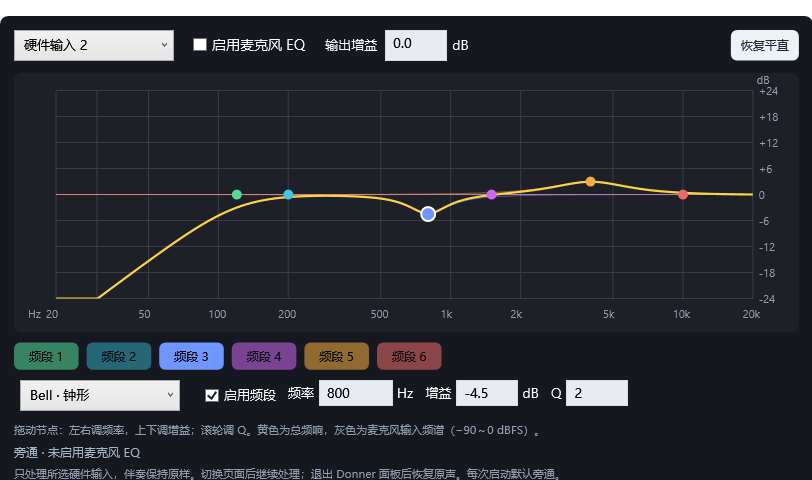
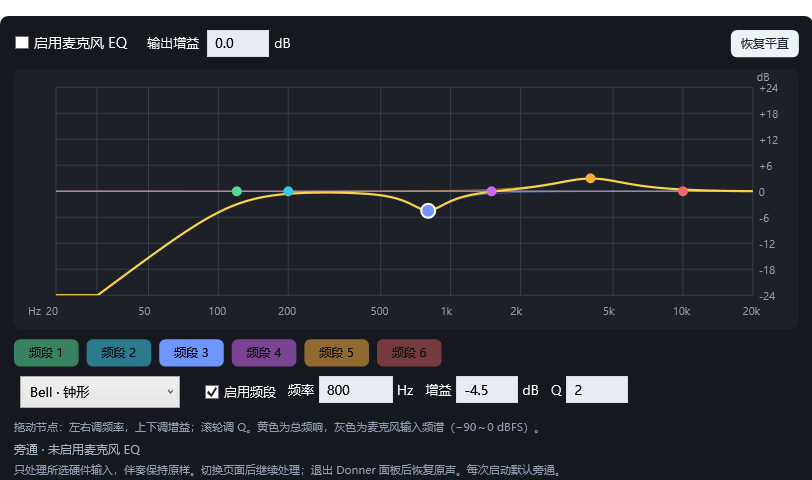
Fix microphone EQ selection and live spectrum in v1.34

diff --git a/src/Donner.Panel/EqEditor.cs b/src/Donner.Panel/EqEditor.cs
@@ -27,6 +27,8 @@ internal sealed class EqEditor:Border,IDisposable
     private bool updating;
     private string? editError,readError;
     private int index,selected;
+    internal int SelectedTarget=>index;
+    internal event Action<int>? TargetChanged;
     internal EqEditor(IEqEditorSource source)
     {
         this.source=source;if(source.IsOutput)timer.Interval=TimeSpan.FromMilliseconds(500);MinWidth=0;MinHeight=480;Margin=new Thickness(0,16,0,0);Padding=new Thickness(14);CornerRadius=new CornerRadius(8);
@@ -38,7 +40,7 @@ internal sealed class EqEditor:Border,IDisposable
         foreach(var height in new[]{GridLength.Auto,new GridLength(260),GridLength.Auto,GridLength.Auto})body.RowDefinitions.Add(new(){Height=height});
         var header=new DockPanel{Margin=new Thickness(0,0,0,12)};body.Children.Add(header);
         var reset=new Button{Content="恢复平直",FontSize=12,Padding=new Thickness(10,6,10,6),Margin=new Thickness(12,0,0,0)};DockPanel.SetDock(reset,Dock.Right);header.Children.Add(reset);
-        var headerLeft=new WrapPanel();header.Children.Add(headerLeft);headerLeft.Children.Add(input);if(source.IsOutput){headerLeft.Children.Add(channel);headerLeft.Children.Add(linked);}headerLeft.Children.Add(enabled);
+        var headerLeft=new WrapPanel();header.Children.Add(headerLeft);if(source.IsOutput){headerLeft.Children.Add(input);headerLeft.Children.Add(channel);headerLeft.Children.Add(linked);}headerLeft.Children.Add(enabled);
         if(!source.IsOutput){headerLeft.Children.Add(new TextBlock{Text="输出增益",VerticalAlignment=VerticalAlignment.Center,Margin=new Thickness(20,0,8,0)});headerLeft.Children.Add(preamp);headerLeft.Children.Add(new TextBlock{Text="dB",VerticalAlignment=VerticalAlignment.Center,Margin=new Thickness(5,0,0,0)});}
         Grid.SetRow(Graph,1);body.Children.Add(Graph);
         var editor=new StackPanel{Margin=new Thickness(0,10,0,0)};Grid.SetRow(editor,2);body.Children.Add(editor);editor.Children.Add(bandButtons);
@@ -66,12 +68,12 @@ internal sealed class EqEditor:Border,IDisposable
         Graph.SelectionChanged=SelectBand;Graph.BandChanged=(band,value)=>{selected=band;ChangeBand(value);};
         timer.Tick+=(_,_)=>
         {
-            if(!IsVisible)return;source.Maintain();
+            bool visible=IsVisible&&Window.GetWindow(this)?.WindowState!=WindowState.Minimized;source.Monitor(visible,index);if(!visible)return;source.Maintain();
             Graph.SampleRate=source.SampleRate;source.Spectrum(index,samples);Graph.UpdateSpectrum(samples,source.HasAudio);
             if(source.IsOutput&&!Graph.IsMouseCaptureWithin&&!type.IsDropDownOpen&&!input.IsDropDownOpen&&!channel.IsDropDownOpen&&!new[]{frequency,gain,q,preamp}.Any(x=>x.IsKeyboardFocusWithin))RefreshFields();
             status.Text=editError??readError??source.Status;
         };
-        Loaded+=(_,_)=>timer.Start();Unloaded+=(_,_)=>timer.Stop();IsVisibleChanged+=(_,_)=>{if(IsVisible)timer.Start();else timer.Stop();};SelectInput(0);
+        Loaded+=(_,_)=>{source.Monitor(IsVisible,index);timer.Start();};Unloaded+=(_,_)=>{source.Monitor(false,index);timer.Stop();};IsVisibleChanged+=(_,_)=>{source.Monitor(IsVisible,index);if(IsVisible)timer.Start();else timer.Stop();};SelectInput(0);
     }
     private MicrophoneEqSettings Current=>source.Read(index,Math.Max(0,channel.SelectedIndex));
     private static TextBox Number(double width)=>new(){Width=width,Padding=new Thickness(5,4,5,4),FontSize=13,Foreground=Brushes.Black,Background=new SolidColorBrush(Color.FromRgb(232,236,242))};
@@ -82,7 +84,7 @@ internal sealed class EqEditor:Border,IDisposable
     }
     internal void SelectInput(int value)
     {
-        index=Math.Clamp(value,0,source.Targets.Length-1);updating=true;input.SelectedIndex=index;updating=false;RefreshFields();
+        index=Math.Clamp(value,0,source.Targets.Length-1);updating=true;input.SelectedIndex=index;updating=false;RefreshFields();source.Monitor(IsVisible,index);TargetChanged?.Invoke(index);
     }
     private void SelectBand(int value){selected=value;RefreshFields();}
     private void ChangeBand(EqBand value)
@@ -106,7 +108,7 @@ internal sealed class EqEditor:Border,IDisposable
         {status.Text=editError="请输入有效数字。";RefreshFields();return;}
         TryEdit(()=>{var config=Current;config.Bands[selected]=config.Bands[selected] with{Frequency=f,Gain=g,Q=quality};return config with{Preamp=output};});
     }
-    public void Dispose()=>timer.Stop();
+    public void Dispose(){source.Monitor(false,index);timer.Stop();}
     private void RefreshFields()
     {
         updating=true;try

diff --git a/src/Donner.Panel/MicrophoneEqInsert.cs b/src/Donner.Panel/MicrophoneEqInsert.cs
@@ -15,8 +15,8 @@ internal sealed class MicrophoneEqInsert:IDisposable
     private readonly MicrophoneEqProcessor processor=new();
     private readonly float[] ring=new float[4096];
     private readonly MicrophoneEqSettings[] settings=[MicrophoneEqSettings.Flat(),MicrophoneEqSettings.Flat(),MicrophoneEqSettings.Flat()];
-    private bool registered,disposed;
-    private int sampleRate=48000,preparedRate=48000,restart,preview,position;
+    private bool registered,disposed,monitoring;
+    private int sampleRate=48000,preparedRate=48000,restart,preview,position,ringTarget=-1;
     private long frames,lastFrames,lastActive,nextRestart,releaseAt,releaseDeadline;
     internal bool HasAudio=>registered&&Frames>0&&Environment.TickCount64-lastActive<1200;
     private int callbacks,callbackFault,inputChannels,outputChannels;
@@ -40,9 +40,15 @@ internal sealed class MicrophoneEqInsert:IDisposable
     internal void Configure(int strip,MicrophoneEqSettings value)
     {
         value.Validate();var old=settings[strip];settings[strip]=value with{Bands=(EqBand[])value.Bands.Clone()};Publish();
-        try{if(settings.Any(x=>x.Enabled)&&!registered)Start();else if(!settings.Any(x=>x.Enabled)&&registered){releaseAt=Frames+SampleRate/20;releaseDeadline=Environment.TickCount64+500;}}
+        try{if(settings.Any(x=>x.Enabled)&&!registered)Start();else if(!settings.Any(x=>x.Enabled)&&registered&&!monitoring){releaseAt=Frames+SampleRate/20;releaseDeadline=Environment.TickCount64+500;}}
         catch{settings[strip]=old;Publish();throw;}
-        Status=settings.Any(x=>x.Enabled)?"麦克风 EQ 已启用":"旁通 · 麦克风原声";
+        Status=settings.Any(x=>x.Enabled)?"麦克风 EQ 已启用":monitoring?"实时频谱 · EQ 旁通":"旁通 · 麦克风原声";
+    }
+    internal void Monitor(bool active,int target)
+    {
+        Preview=target;bool changed=monitoring!=active;monitoring=active;
+        if(active&&!registered)Start();
+        if(!active&&changed&&registered&&!settings.Any(x=>x.Enabled)){releaseAt=Frames+SampleRate/20;releaseDeadline=Environment.TickCount64+500;}
     }
     private void Publish(){preparedRate=SampleRate;processor.Publish(new(settings,preparedRate));}
     private void Start()
@@ -69,13 +75,14 @@ internal sealed class MicrophoneEqInsert:IDisposable
             nextRestart=Environment.TickCount64+1000;int result=stop();if(result==0)result=start();if(result==0)Interlocked.Exchange(ref restart,0);
             Status=result==0?"麦克风 EQ 已重新连接":$"麦克风 EQ 等待重连（{result}）";
         }
-        if(registered&&!settings.Any(x=>x.Enabled)&&(Frames>=releaseAt||Environment.TickCount64>=releaseDeadline)){Release();Status="旁通 · 麦克风原声";}
-        if(registered&&Frames!=lastFrames){lastFrames=Frames;lastActive=Environment.TickCount64;if(settings.Any(x=>x.Enabled))Status="麦克风 EQ 已启用";}
+        if(registered&&!monitoring&&!settings.Any(x=>x.Enabled)&&(Frames>=releaseAt||Environment.TickCount64>=releaseDeadline)){Release();Status="旁通 · 麦克风原声";}
+        if(registered&&Frames!=lastFrames){lastFrames=Frames;lastActive=Environment.TickCount64;Status=settings.Any(x=>x.Enabled)?"麦克风 EQ 已启用":monitoring?"实时频谱 · EQ 旁通":"旁通 · 麦克风原声";}
         else if(registered&&!HasAudio)Status="等待 Banana 音频缓冲，恢复后将自动重连。";
         if(CallbackFault!=0)Status="麦克风 EQ 回调异常，请关闭后重新启用。";
     }
     internal void CopySpectrum(Span<float> target)
     {
+        if(Volatile.Read(ref ringTarget)!=Preview){target.Clear();return;}
         int end=Volatile.Read(ref position);
         for(int i=0;i<target.Length;i++)target[i]=ring[(end-target.Length+i)&4095];
     }
@@ -101,7 +108,8 @@ internal sealed class MicrophoneEqInsert:IDisposable
             if(channel>=inputs||reads[channel]==null){output.Clear();continue;}
             new ReadOnlySpan<float>(reads[channel],count).CopyTo(output);
         }
-        int first=Volatile.Read(ref preview)*2;
+        int target=Volatile.Read(ref preview);if(ringTarget!=target){Array.Clear(ring);position=0;Volatile.Write(ref ringTarget,target);}
+        int first=target*2;
         if(first+1<inputs&&reads[first]!=null&&reads[first+1]!=null)
         {
             float* left=reads[first];float* right=reads[first+1];double energyL=0,energyR=0;

diff --git a/src/Donner.Panel/MixerPanel.cs b/src/Donner.Panel/MixerPanel.cs
@@ -22,6 +22,8 @@ internal sealed class MixerPanel:Border,IDisposable
     private readonly DispatcherTimer timer=new(){Interval=TimeSpan.FromMilliseconds(80)};
     private long nextRead,nextConnection;
     private bool updating,wasConnected,disposed;
+    private readonly List<Button> microphoneEqButtons=[];
+    private int selectedMicrophone;
     private readonly EqEditor inputEditor;
     private readonly EqEditor outputEditor;
     internal IMixerClient Client=>client;
@@ -31,7 +33,7 @@ internal sealed class MixerPanel:Border,IDisposable
     public MixerPanel(IMixerClient client,bool automaticPolling=true,FrameworkElement? sampleRates=null,Action? editNames=null,string? eqStorage=null)
     {
         this.client=client;microphoneEq=new(client as VoicemeeterClient,eqStorage is null?null:Path.Combine(eqStorage,"microphone-eq.json"));
-        inputEditor=new(microphoneEq);
+        inputEditor=new(microphoneEq);inputEditor.TargetChanged+=UpdateMicrophoneSelection;
         outputEditor=new(new OutputEqSource(key=>pending.TryGetValue(key,out var value)?value:ReadValue(key),Queue,()=>{try{return (int)client.Get("Option.sr") is var rate&&rate>=8000?rate:48000;}catch(IOException){return 48000;}}));
         Background=new SolidColorBrush(Color.FromRgb(248,250,251));BorderBrush=new SolidColorBrush(Color.FromRgb(227,233,237));
         BorderThickness=new Thickness(1);CornerRadius=new CornerRadius(8);Padding=new Thickness(14);Margin=new Thickness(0);
@@ -119,9 +121,21 @@ internal sealed class MixerPanel:Border,IDisposable
         {
             var routes=new WrapPanel{HorizontalAlignment=HorizontalAlignment.Center,Margin=new Thickness(0,7,0,5)};box.Children.Add(routes);
             foreach(var route in MixerRules.Routes)AddCheck(routes,route,prefix+"."+route);
-            if(index<3){var micEq=new Button{Content="麦克风 EQ",FontSize=11,Padding=new Thickness(8,4,8,4),Margin=new Thickness(0,5,0,3)};box.Children.Add(micEq);micEq.Click+=(_,_)=>{inputEditor.SelectInput(index);inputEditor.BringIntoView();};}
+            if(index<3){var micEq=new Button{Content="麦克风 EQ",FontSize=11,Padding=new Thickness(8,4,8,4),Margin=new Thickness(0,5,0,3),Tag=$"MicrophoneEq.{index}"};box.Children.Add(micEq);microphoneEqButtons.Add(micEq);UpdateMicrophoneSelection(selectedMicrophone);micEq.Click+=(_,_)=>{inputEditor.SelectInput(index);inputEditor.BringIntoView();};}
             if(index<3){AddNumber(box,"压缩",prefix+".Comp",0,10,.1f);AddNumber(box,"噪声门",prefix+".Gate",0,10,.1f);}
             else for(int band=1;band<=3;band++)AddNumber(box,new[]{"低频","中频","高频"}[band-1],prefix+$".EQGain{band}",-12,12,.1f);
+        }
+    }
+    private void UpdateMicrophoneSelection(int index)
+    {
+        selectedMicrophone=index;
+        for(int i=0;i<microphoneEqButtons.Count;i++)
+        {
+            bool active=i==index;var button=microphoneEqButtons[i];
+            button.Background=new SolidColorBrush(active?Color.FromRgb(20,119,159):Color.FromRgb(235,242,245));
+            button.Foreground=active?Brushes.White:new SolidColorBrush(Color.FromRgb(22,42,52));
+            button.FontWeight=active?FontWeights.SemiBold:FontWeights.Normal;
+            button.ToolTip=active?$"正在编辑硬件输入 {i+1}":$"编辑硬件输入 {i+1} 的 EQ";
         }
     }
     private void AddCheck(System.Windows.Controls.Panel parent,string caption,string key)

diff --git a/src/Donner.Panel/MicrophoneEqChecks.cs b/src/Donner.Panel/MicrophoneEqChecks.cs
@@ -28,9 +28,12 @@ internal static class MicrophoneEqChecks
             if(allocated!=0)throw new IOException($"回调路径存在逐帧分配：{allocated}");synthetic=true;
         }
         finally{foreach(var ptr in channels)Marshal.FreeHGlobal(ptr);Marshal.FreeHGlobal(buffer);}
-        long initial=engine.Frames;engine.Configure(0,MicrophoneEqSettings.Flat() with{Enabled=true});
-        try{await Task.Delay(1500);engine.Maintain();if(engine.InputChannels<6||engine.OutputChannels<6)throw new IOException("实际麦克风插入声道数量不足。");if(engine.Frames<=initial)throw new IOException("Banana 输入插入未返回实际音频缓冲。");}
-        finally{engine.Dispose();}
-        File.WriteAllText(report,JsonSerializer.Serialize(new{Success=true,SyntheticChannelBypass=synthetic,CallbackAllocatedBytes=allocated,LiveFrames=engine.Frames-initial,engine.SampleRate,engine.InputChannels,engine.OutputChannels,engine.CallbackFault,Released=!engine.Registered,FlatOnly=true},new JsonSerializerOptions{WriteIndented=true}));
+        long initial=engine.Frames;engine.Monitor(true,0);
+        float peak=0;long liveFrames=0;
+        try{await Task.Delay(1500);engine.Maintain();var spectrum=new float[2048];engine.CopySpectrum(spectrum);peak=spectrum.Max(x=>Math.Abs(x));liveFrames=engine.Frames-initial;
+            var graph=new EqGraph{Width=900,Height=300,SampleRate=engine.SampleRate};graph.UpdateSpectrum(spectrum,engine.HasAudio);graph.Measure(new System.Windows.Size(900,300));graph.Arrange(new System.Windows.Rect(0,0,900,300));graph.UpdateLayout();
+            var image=new System.Windows.Media.Imaging.RenderTargetBitmap(900,300,96,96,System.Windows.Media.PixelFormats.Pbgra32);image.Render(graph);var encoder=new System.Windows.Media.Imaging.PngBitmapEncoder();encoder.Frames.Add(System.Windows.Media.Imaging.BitmapFrame.Create(image));using(var file=File.Create(report+".png"))encoder.Save(file);if(engine.InputChannels<6||engine.OutputChannels<6)throw new IOException("实际麦克风插入声道数量不足。");if(engine.Frames<=initial)throw new IOException("Banana 输入插入未返回实际音频缓冲。");}
+        finally{engine.Monitor(false,0);await Task.Delay(600);engine.Maintain();engine.Dispose();}
+        File.WriteAllText(report,JsonSerializer.Serialize(new{Success=true,SyntheticChannelBypass=synthetic,CallbackAllocatedBytes=allocated,LiveFrames=liveFrames,SpectrumPeak=peak,BypassMonitoring=true,engine.SampleRate,engine.InputChannels,engine.OutputChannels,engine.CallbackFault,Released=!engine.Registered,FlatOnly=true},new JsonSerializerOptions{WriteIndented=true}));
     }
 }

diff --git a/src/Donner.Panel/MicrophoneEqRack.cs b/src/Donner.Panel/MicrophoneEqRack.cs
@@ -9,7 +9,8 @@ internal sealed class MicrophoneEqRack:IDisposable,IEqEditorSource
     private readonly string? path;
     private readonly MicrophoneEqSettings[] settings=[MicrophoneEqSettings.Flat(),MicrophoneEqSettings.Flat(),MicrophoneEqSettings.Flat()];
     private MicrophoneEqInsert? insert;
-    private string? error;
+    private string? error,monitorError;
+    private long nextMonitorAttempt;
     private readonly System.Windows.Threading.DispatcherTimer saveTimer=new(){Interval=TimeSpan.FromMilliseconds(300)};
     private bool dirty;
     internal MicrophoneEqSettings Get(int index)=>settings[index] with{Bands=(EqBand[])settings[index].Bands.Clone()};
@@ -17,7 +18,7 @@ internal sealed class MicrophoneEqRack:IDisposable,IEqEditorSource
     internal bool Running=>insert?.Registered==true;
     internal bool HasAudio=>insert?.HasAudio==true;
     internal long Frames=>insert?.Frames??0;
-    internal string Status=>error??insert?.Status??"旁通 · 未启用麦克风 EQ";
+    internal string Status=>error??monitorError??insert?.Status??"旁通 · 未启用麦克风 EQ";
     internal MicrophoneEqRack(VoicemeeterClient? client,string? path)
     {
         this.client=client;this.path=path;saveTimer.Tick+=(_,_)=>Save();
@@ -74,6 +75,17 @@ internal sealed class MicrophoneEqRack:IDisposable,IEqEditorSource
     {
         if(insert is null){target.Clear();return;}insert.Preview=index;insert.CopySpectrum(target);
     }
+    public void Monitor(bool active,int target)
+    {
+        if(client is null)return;
+        if(active&&(!client.Connected||Environment.TickCount64<nextMonitorAttempt))return;
+        try
+        {
+            if(active)insert??=client.InputEq;
+            insert?.Monitor(active,target);monitorError=null;
+        }
+        catch(Exception e) when(e is IOException or InvalidDataException){monitorError=e.Message;nextMonitorAttempt=Environment.TickCount64+2000;}
+    }
     public bool IsOutput=>false;
     public string[] Targets=>["硬件输入 1","硬件输入 2","硬件输入 3"];
     int IEqEditorSource.SampleRate=>SampleRate;
@@ -83,5 +95,5 @@ internal sealed class MicrophoneEqRack:IDisposable,IEqEditorSource
     MicrophoneEqSettings IEqEditorSource.Read(int target,int channel)=>Get(target);
     void IEqEditorSource.Apply(int target,int channel,bool linked,MicrophoneEqSettings value)=>Set(target,value);
     void IEqEditorSource.Spectrum(int target,Span<float> values)=>Spectrum(target,values);
-    public void Dispose(){Save();saveTimer.Stop();}
+    public void Dispose(){Monitor(false,0);Save();saveTimer.Stop();}
 }

diff --git a/src/Donner.Panel/MainWindow.xaml.cs b/src/Donner.Panel/MainWindow.xaml.cs
@@ -53,7 +53,7 @@ public partial class MainWindow : Window
         StreamModeCombo.ItemsSource=new[]{new DriverOption(1,"按需开启"),new DriverOption(2,"持续开启")};
         OutputFormatCombo.SelectionChanged+=(_,_)=>{if(!rendering&&OutputFormatCombo.SelectedItem is DriverOption option)selectedFormat=option.Value;};
         StreamModeCombo.SelectionChanged+=(_,_)=>{if(!rendering&&StreamModeCombo.SelectedItem is DriverOption option)selectedStreamMode=option.Value;};
-        Title="Donner 中文控制面板 · v1.33 · topsai (范斯特洛夫斯基)";
+        Title="Donner 中文控制面板 · v1.34 · topsai (范斯特洛夫斯基)";
         AboutVersion.Text="版本 "+typeof(MainWindow).Assembly.GetName().Version?.ToString(3);
         var smoke=Array.IndexOf(args,"--smoke");
         smokeDirectory=smoke>=0 && smoke+1<args.Length?Path.GetFullPath(args[smoke+1]):null;
@@ -248,7 +248,7 @@ public partial class MainWindow : Window
             try
             {
                 Directory.CreateDirectory(reconnectCheckDirectory);
-                File.WriteAllText(Path.Combine(reconnectCheckDirectory,"state.json"),JsonSerializer.Serialize(new {Version="1.33",ProcessId=Environment.ProcessId,Updated=DateTimeOffset.Now,d.Connected,d.Demo,d.Status,d.SampleRate,d.BufferSize,DeviceChanges=deviceChanges,NotificationRegistered=notifications is not null},new JsonSerializerOptions {WriteIndented=true}));
+                File.WriteAllText(Path.Combine(reconnectCheckDirectory,"state.json"),JsonSerializer.Serialize(new {Version="1.34",ProcessId=Environment.ProcessId,Updated=DateTimeOffset.Now,d.Connected,d.Demo,d.Status,d.SampleRate,d.BufferSize,DeviceChanges=deviceChanges,NotificationRegistered=notifications is not null},new JsonSerializerOptions {WriteIndented=true}));
             }
             catch(IOException){}
         }

diff --git a/src/Donner.Panel/MixerSmoke.cs b/src/Donner.Panel/MixerSmoke.cs
@@ -116,6 +116,12 @@ public partial class MainWindow
         fader.RaiseEvent(new System.Windows.Input.MouseButtonEventArgs(System.Windows.Input.Mouse.PrimaryDevice,Environment.TickCount,System.Windows.Input.MouseButton.Left){RoutedEvent=Control.PreviewMouseDoubleClickEvent});panel.Poll(true);
         if(fader.Value!=0||fake.Values.GetValueOrDefault("Strip[0].Gain")!=0)throw new Exception("双击推子未精确归零。");
         fader.Value=.1;panel.Poll(true);if(Math.Abs(fake.Values.GetValueOrDefault("Strip[0].Gain")-.1f)>.001)throw new Exception("零点吸附破坏了非鼠标微调。");
+        var micButtons=Visuals<Button>(panel).Where(x=>x.Tag?.ToString()?.StartsWith("MicrophoneEq.")==true).ToArray();
+        var inputEq=Visuals<EqEditor>(panel).Single();
+        if(inputEq.SelectedTarget!=0||((SolidColorBrush)micButtons[0].Background).Color==((SolidColorBrush)micButtons[1].Background).Color)throw new Exception("默认麦克风EQ未高亮第一个输入。");
+        micButtons[1].RaiseEvent(new RoutedEventArgs(Button.ClickEvent));
+        if(inputEq.SelectedTarget!=1||((SolidColorBrush)micButtons[1].Background).Color==((SolidColorBrush)micButtons[0].Background).Color)throw new Exception("按钮选择未同步目标与高亮。");
+        if(Visuals<ComboBox>(inputEq).Any(x=>x.Items.Count==3&&x.Items[0]?.ToString()=="硬件输入 1"))throw new Exception("麦克风输入下拉框仍显示。");
         int windowCount=System.Windows.Application.Current.Windows.Count;
         Visuals<Button>(panel).First(x=>x.Content?.ToString()=="麦克风 EQ").RaiseEvent(new RoutedEventArgs(Button.ClickEvent));
         if(System.Windows.Application.Current.Windows.Count!=windowCount||Visuals<EqEditor>(panel).Count()!=1)throw new Exception("麦克风EQ未保持页面内编辑。");

diff --git a/src/Donner.Panel/EqEditorSource.cs b/src/Donner.Panel/EqEditorSource.cs
@@ -8,6 +8,7 @@ internal interface IEqEditorSource
     string Status {get;}
     bool HasAudio {get;}
     void Maintain();
+    void Monitor(bool active,int target){}
     MicrophoneEqSettings Read(int target,int channel);
     void Apply(int target,int channel,bool linked,MicrophoneEqSettings settings);
     void Spectrum(int target,Span<float> values);

diff --git a/docs/superpowers/plans/2026-11-03-eq-selection-spectrum.md b/docs/superpowers/plans/2026-11-03-eq-selection-spectrum.md
@@ -1,0 +1,5 @@
+# EQ selection and bypass spectrum
+
+Remove only the microphone target dropdown from the shared editor; retain the output bus selector. Input strip EQ buttons select the target and share selected styling, defaulting to input 1. Keep selection and edit data separate from effect enabling.
+
+The missing spectrum is caused by tying callback startup to the EQ enable flag. Introduce a monitoring lease on the existing insert: visible microphone editor requests actual, flat input monitoring even when all EQs are bypassed. Hide/unload/minimize drops the lease; active EQ keeps its processing, while unused inserts release after a short fade/timeout. Retrying must not steal an occupied insert. On target change the callback clears its ring and readers reject stale target data. Verify with default button/target tests and native bypass-only monitoring, spectrum peak, no allocations, no callback fault and clean release.
